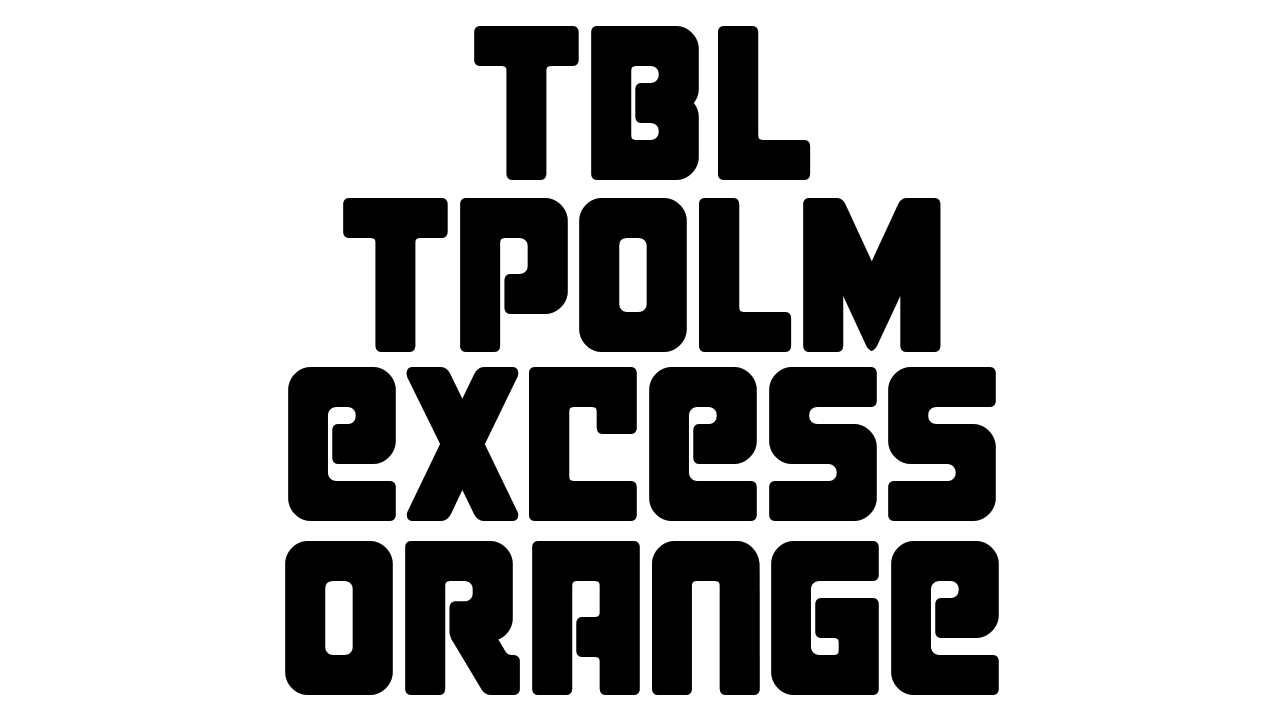
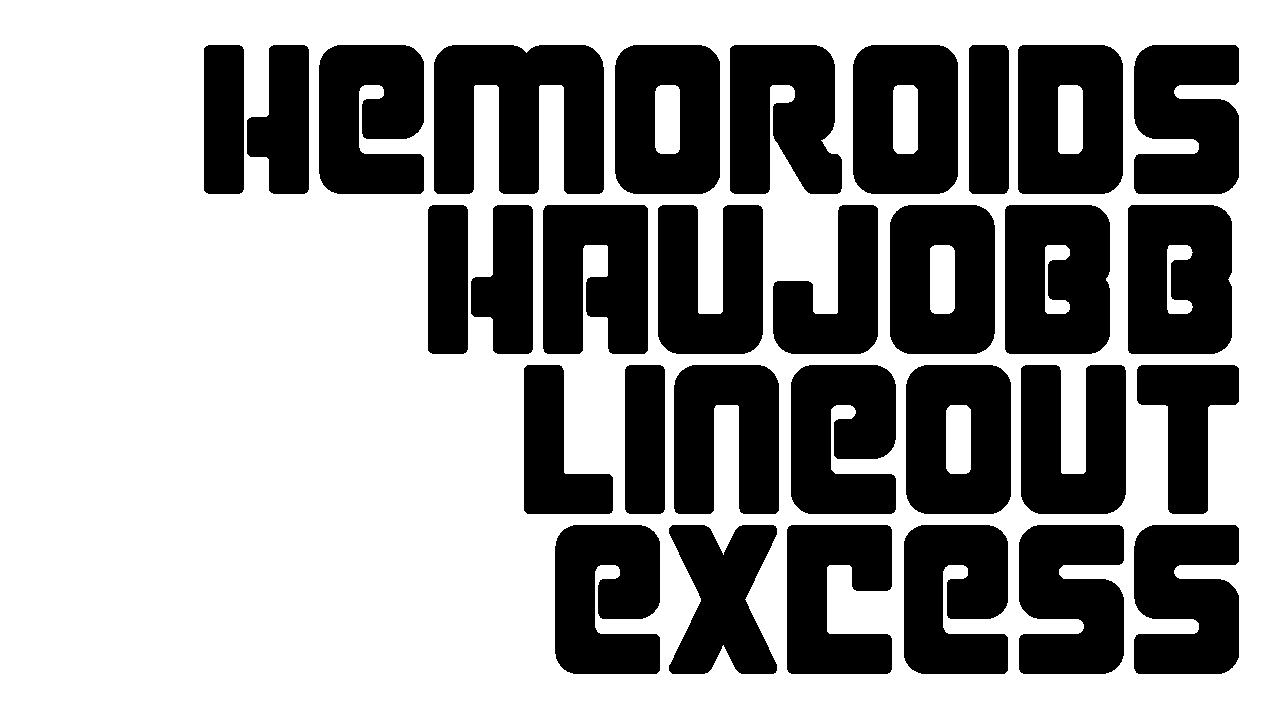
New (more) greetings!

diff --git a/code/demo.cpp b/code/demo.cpp
@@ -71,8 +71,7 @@ static uint32_t *s_pBallVignette = nullptr; // and free color grading too!
 
 // greetings art
 static uint32_t *s_pGreetingsDirt = nullptr;
-static uint32_t *s_pGreetings1 = nullptr;
-static uint32_t *s_pGreetings2 = nullptr;
+static uint32_t *s_pGreetings[4] = { nullptr };
 static uint32_t *s_pGreetingsVignette = nullptr;
 
 // nautilus art
@@ -168,11 +167,16 @@ bool Demo_Create()
 
 	// greetings
 	s_pGreetingsDirt = Image_Load32("assets/greetings/Bokeh_Lens_Dirt_51.png");
-	s_pGreetings1 = Image_Load32("assets/greetings/Greetings_Part1_BG_Overlay.png");
-	s_pGreetings2 = Image_Load32("assets/greetings/Greetings_Part2_BG_Overlay.png");
+	s_pGreetings[0]= Image_Load32("assets/greetings/Greetings_Part1_BG_Overlay.png");
+	s_pGreetings[1] = Image_Load32("assets/greetings/Greetings_Part2_BG_Overlay.png");
+	s_pGreetings[2] = Image_Load32("assets/greetings/Greetings_Part3_BG_Overlay.png");
+	s_pGreetings[3] = Image_Load32("assets/greetings/Greetings_Part4_BG_Overlay.png");
 	s_pGreetingsVignette = Image_Load32("assets/greetings/Vignette_CoolFilmLook.png");
-	if (nullptr == s_pGreetingsDirt || nullptr == s_pGreetings1 || nullptr == s_pGreetings2 || nullptr == s_pGreetingsVignette)
-		return false;
+	if (
+		nullptr == s_pGreetingsDirt || 
+		nullptr == s_pGreetings[0] || nullptr == s_pGreetings[1] || nullptr == s_pGreetings[2] || nullptr == s_pGreetings[3] ||
+		nullptr == s_pGreetingsVignette)
+			return false;
 
 	// nautilus
 	s_pNautilusVignette = Image_Load32("assets/nautilus/Vignette.png");
@@ -395,35 +399,14 @@ void Demo_Draw(uint32_t *pDest, float timer, float delta)
 				Laura_Draw(pDest, timer, delta);
 
 				const int greetSwitch = Rocket::geti(trackGreetSwitch);
-				switch (greetSwitch)
-				{
-				case 0:
-					{
-						const auto yOffs = ((kResY-243)/2) + 237;
-						const auto xOffs = kResX-263-12; // ((kResX-263)/2) - 300;
-					
-						Darken32_50(pDest, s_pGreetings1, kOutputSize);
-						SoftLight32(pDest, s_pGreetingsDirt, kOutputSize);
-						Overlay32(pDest, s_pGreetingsVignette, kOutputSize);
 
-						BlitSrc32(pDest + xOffs + yOffs*kResX, g_pXboxLogoTPB, kResX, 263, 243);
-					}
-					break;
+				Darken32_50(pDest, s_pGreetings[greetSwitch], kOutputSize);
+				SoftLight32(pDest, s_pGreetingsDirt, kOutputSize);
+				Overlay32(pDest, s_pGreetingsVignette, kOutputSize);
 
-				default:
-				case 1:
-					{
-						const auto yOffs = ((kResY-243)/2) - 237;
-						const auto xOffs = 12; // ((kResX-263)/2) - 300;
-
-						Darken32_50(pDest, s_pGreetings2, kOutputSize);
-						SoftLight32(pDest, s_pGreetingsDirt, kOutputSize);
-						Overlay32(pDest, s_pGreetingsVignette, kOutputSize);
-
-						BlitSrc32(pDest + xOffs + yOffs*kResX, g_pXboxLogoTPB, kResX, 263, 243);
-					}
-					break;
-				}
+				const auto yOffs = ((kResY-243)/2) + 237;
+				const auto xOffs = 12; // ((kResX-263)/2) - 300;
+				BlitSrc32(pDest + xOffs + yOffs*kResX, g_pXboxLogoTPB, kResX, 263, 243);
 			}
 			break;
 
